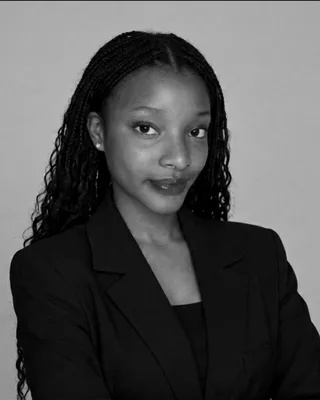
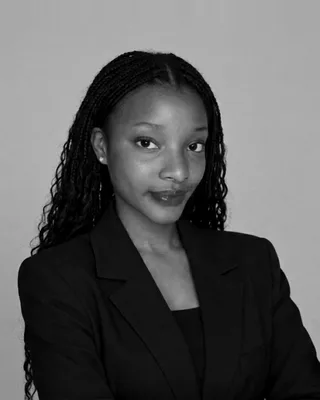
Content studio: one-click button to turn the website popup off or on (hides the event popup too); Kamahoro Linda Kellia photo re-cropped to fit; Livia's full name Livia Kirezi

Changed region(s): [[0.0312, 0.06, 1.0, 1.0]]

diff --git a/src/features/hub/announcement.tsx b/src/features/hub/announcement.tsx
@@ -2,7 +2,7 @@ import { translateUi, useSiteLanguage, formatDate } from '../../i18n/language';
 import { platformApi, uploadFile } from "./platform-api";
 import { useEffect, useState } from 'react';
 import { Link } from 'react-router-dom';
-import { CalendarDays, ArrowUpRight, Pause, Play, PencilLine } from 'lucide-react';
+import { CalendarDays, ArrowUpRight, Pause, Play, PencilLine, Power } from 'lucide-react';
 import { FormModal } from './modal';
 import { toast } from 'sonner';
 import { useHub, today } from './store';
@@ -107,10 +107,22 @@ export function WelcomePopupEditor() {
     if (profile.role !== 'Administrator')
         return null;
     const change = (key: keyof WelcomePopup, value: string | boolean) => setDraft(d => d && ({ ...d, [key]: value }));
+    // One click turns every website popup off (or back on) without opening the form.
+    async function toggle() {
+        const next = { ...saved, enabled: !saved.enabled };
+        setBusy(true);
+        try {
+            await platformApi('/welcome-popup', 'PUT', next);
+            setSaved(next);
+            toast.success(translateUi(next.enabled ? 'The popup is back on the website' : 'The popup is turned off'));
+        }
+        catch (err) { toast.error(translateUi((err as Error).message)); }
+        finally { setBusy(false); }
+    }
     const preview = (item: WelcomePopup) => <div className="plp-promo-preview"><PromoCard inline item={null} welcome={item} imageUrl={item.image ? `/api/files/${item.image}` : undefined} onClose={() => { }} link={(className, children, _onClick, to) => <a className={className} href={to} onClick={e => e.preventDefault()}>{children}</a>}/></div>;
     return <Panel>
- <div className="ws-panel-title"><div><h2>{translateUi("Welcome popup")} <span className={`ws-status ${saved.enabled ? 'ws-status-issued' : 'ws-status-returned'}`}>{translateUi(saved.enabled ? 'On' : 'Off')}</span></h2><p className="hub-caption">{translateUi("Visitors see this popup when they open the website and no event is live. During an event, the event popup is shown instead.")}</p></div>
- <button type="button" className="hub-button" onClick={() => setDraft(saved)}><PencilLine size={16}/>{translateUi("Edit popup")}</button></div>
+ <div className="ws-panel-title"><div><h2>{translateUi("Welcome popup")} <span className={`ws-status ${saved.enabled ? 'ws-status-issued' : 'ws-status-returned'}`}>{translateUi(saved.enabled ? 'On' : 'Off')}</span></h2><p className="hub-caption">{translateUi("Visitors see this popup when they open the website and no event is live. During an event, the event popup is shown instead. Turning the popup off hides both.")}</p></div>
+ <div className="hub-actions"><button type="button" className={`hub-button ${saved.enabled ? 'secondary' : ''}`} disabled={busy} onClick={toggle}><Power size={16}/>{translateUi(saved.enabled ? 'Turn off popup' : 'Turn on popup')}</button><button type="button" className="hub-button" onClick={() => setDraft(saved)}><PencilLine size={16}/>{translateUi("Edit popup")}</button></div></div>
  <dl className="an-facts"><div><dt>{translateUi("Style")}</dt><dd>{translateUi(saved.imageOnly ? 'Flyer only' : 'Headline and button')}</dd></div>{!saved.imageOnly && <><div><dt>{translateUi("Headline")}</dt><dd>{saved.title || '—'}</dd></div><div><dt>{translateUi("Button")}</dt><dd>{saved.cta || '—'}</dd></div></>}<div><dt>{translateUi("Image")}</dt><dd>{translateUi(saved.image ? 'Custom flyer' : 'Default photo')}</dd></div></dl>
  <h3 className="hub-space">{translateUi("Popup preview")}</h3>{preview(saved)}
  {draft && <FormModal wide title={translateUi("Edit welcome popup")} description={translateUi("Saving updates the popup on the public website straight away.")} onClose={() => { if (!busy) setDraft(null); }}><form className="hub-form" onSubmit={async (e) => {

diff --git a/src/i18n/translations.ts b/src/i18n/translations.ts
@@ -10744,9 +10744,9 @@ export const translations: Record<string, {rw: string; fr: string}> = {
     "rw": "Itangazo ry'ikaze",
     "fr": "Fenêtre d'accueil"
   },
-  "Visitors see this popup when they open the website and no event is live. During an event, the event popup is shown instead.": {
-    "rw": "Abasura urubuga babona iri tangazo iyo nta gikorwa kiriho. Iyo hari igikorwa, hagaragara itangazo ry'igikorwa.",
-    "fr": "Les visiteurs voient cette fenêtre en ouvrant le site lorsqu'aucun événement n'est en cours. Pendant un événement, la fenêtre de l'événement s'affiche à la place."
+  "Visitors see this popup when they open the website and no event is live. During an event, the event popup is shown instead. Turning the popup off hides both.": {
+    "rw": "Abasura urubuga babona iri tangazo iyo nta gikorwa kiriho. Iyo hari igikorwa, hagaragara itangazo ry'igikorwa. Kurizimya bihagarika byombi.",
+    "fr": "Les visiteurs voient cette fenêtre en ouvrant le site lorsqu'aucun événement n'est en cours. Pendant un événement, la fenêtre de l'événement s'affiche à la place. La désactiver masque les deux."
   },
   "Show the welcome popup": {
     "rw": "Erekana itangazo ry'ikaze",
@@ -10775,6 +10775,22 @@ export const translations: Record<string, {rw: string; fr: string}> = {
   "Save welcome popup": {
     "rw": "Bika itangazo ry'ikaze",
     "fr": "Enregistrer la fenêtre d'accueil"
+  },
+  "Turn off popup": {
+    "rw": "Zimya itangazo",
+    "fr": "Désactiver la fenêtre"
+  },
+  "Turn on popup": {
+    "rw": "Fungura itangazo",
+    "fr": "Activer la fenêtre"
+  },
+  "The popup is turned off": {
+    "rw": "Itangazo ryazimijwe",
+    "fr": "La fenêtre est désactivée"
+  },
+  "The popup is back on the website": {
+    "rw": "Itangazo ryongeye kugaragara ku rubuga",
+    "fr": "La fenêtre est de retour sur le site"
   },
   "Welcome popup saved": {
     "rw": "Itangazo ry'ikaze ryabitswe",

diff --git a/landing/src/event-flyer.tsx b/landing/src/event-flyer.tsx
@@ -34,11 +34,10 @@ export function EventFlyer({ item, link }: {
     const [welcome, setWelcome] = useState<WelcomePopup | null>(null);
     const close = useRef<HTMLButtonElement>(null);
     useEffect(() => {
-        if (item) return;
         let active = true;
         fetch('/api/public/welcome-popup', { cache: 'no-store' }).then(r => r.ok ? r.json() : null).then((v: WelcomePopup | null) => { if (active) setWelcome(v ?? defaultWelcomePopup); }).catch(() => { if (active) setWelcome(defaultWelcomePopup); });
         return () => { active = false; };
-    }, [item]);
+    }, []);
     useEffect(() => {
         if (closedThisVisit) return;
         let timer: number | undefined;
@@ -67,8 +66,8 @@ export function EventFlyer({ item, link }: {
         setOpen(false);
         closedThisVisit = true;
     }
-    // Without an event, wait for the administrator's popup and respect its on/off switch.
-    if (!open || (!item && (!welcome || !welcome.enabled))) return null;
+    // Wait for the administrator's popup settings: switching it off hides the event popup too.
+    if (!open || !welcome || !welcome.enabled) return null;
     return <div className="plp-promo-layer" role="presentation" onClick={e => { if (e.target === e.currentTarget) dismiss(); }}>
     <PromoCard item={item} welcome={welcome ?? defaultWelcomePopup} link={link} onClose={dismiss} closeRef={close}/>
   </div>;

diff --git a/src/features/hub/event-flyer.tsx b/src/features/hub/event-flyer.tsx
@@ -34,11 +34,10 @@ export function EventFlyer({ item, link }: {
     const [welcome, setWelcome] = useState<WelcomePopup | null>(null);
     const close = useRef<HTMLButtonElement>(null);
     useEffect(() => {
-        if (item) return;
         let active = true;
         fetch('/api/public/welcome-popup', { cache: 'no-store' }).then(r => r.ok ? r.json() : null).then((v: WelcomePopup | null) => { if (active) setWelcome(v ?? defaultWelcomePopup); }).catch(() => { if (active) setWelcome(defaultWelcomePopup); });
         return () => { active = false; };
-    }, [item]);
+    }, []);
     useEffect(() => {
         if (closedThisVisit) return;
         let timer: number | undefined;
@@ -67,8 +66,8 @@ export function EventFlyer({ item, link }: {
         setOpen(false);
         closedThisVisit = true;
     }
-    // Without an event, wait for the administrator's popup and respect its on/off switch.
-    if (!open || (!item && (!welcome || !welcome.enabled))) return null;
+    // Wait for the administrator's popup settings: switching it off hides the event popup too.
+    if (!open || !welcome || !welcome.enabled) return null;
     return <div className="plp-promo-layer" role="presentation" onClick={e => { if (e.target === e.currentTarget) dismiss(); }}>
     <PromoCard item={item} welcome={welcome ?? defaultWelcomePopup} link={link} onClose={dismiss} closeRef={close}/>
   </div>;

diff --git a/landing/src/team-photos.ts b/landing/src/team-photos.ts
@@ -10,7 +10,7 @@ export const teamPhotos: Record<string, string> = {
  "N. Jean De Dieu": "n-jean-de-dieu",
  "Rita Sandrine": "rita-sandrine",
  "Kamahoro Linda Kellia": "kamahoro-linda-kellia",
- "Livia": "livia",
+ "Livia Kirezi": "livia",
  "Kelly Gisubizo": "kelly-gisubizo",
  "Mutabazi": "mutabazi",
  "Amelia": "amelia",
@@ -42,7 +42,7 @@ export const teamGallery: { name: string; role: string }[] = [
  { name: "N. Jean De Dieu", role: "Director of IT & Digital Systems" },
  { name: "Rita Sandrine", role: "Director of Partnerships" },
  { name: "Kamahoro Linda Kellia", role: "IT manager" },
- { name: "Livia", role: "IT manager" },
+ { name: "Livia Kirezi", role: "IT manager" },
  { name: "Kelly Gisubizo", role: "IT manager" },
  { name: "Mutabazi", role: "PLP Clubs" },
  { name: "Amelia", role: "PLP Clubs" },

diff --git a/src/features/hub/team-photos.ts b/src/features/hub/team-photos.ts
@@ -10,7 +10,7 @@ export const teamPhotos: Record<string, string> = {
  "N. Jean De Dieu": "n-jean-de-dieu",
  "Rita Sandrine": "rita-sandrine",
  "Kamahoro Linda Kellia": "kamahoro-linda-kellia",
- "Livia": "livia",
+ "Livia Kirezi": "livia",
  "Kelly Gisubizo": "kelly-gisubizo",
  "Mutabazi": "mutabazi",
  "Amelia": "amelia",
@@ -42,7 +42,7 @@ export const teamGallery: { name: string; role: string }[] = [
  { name: "N. Jean De Dieu", role: "Director of IT & Digital Systems" },
  { name: "Rita Sandrine", role: "Director of Partnerships" },
  { name: "Kamahoro Linda Kellia", role: "IT manager" },
- { name: "Livia", role: "IT manager" },
+ { name: "Livia Kirezi", role: "IT manager" },
  { name: "Kelly Gisubizo", role: "IT manager" },
  { name: "Mutabazi", role: "PLP Clubs" },
  { name: "Amelia", role: "PLP Clubs" },
